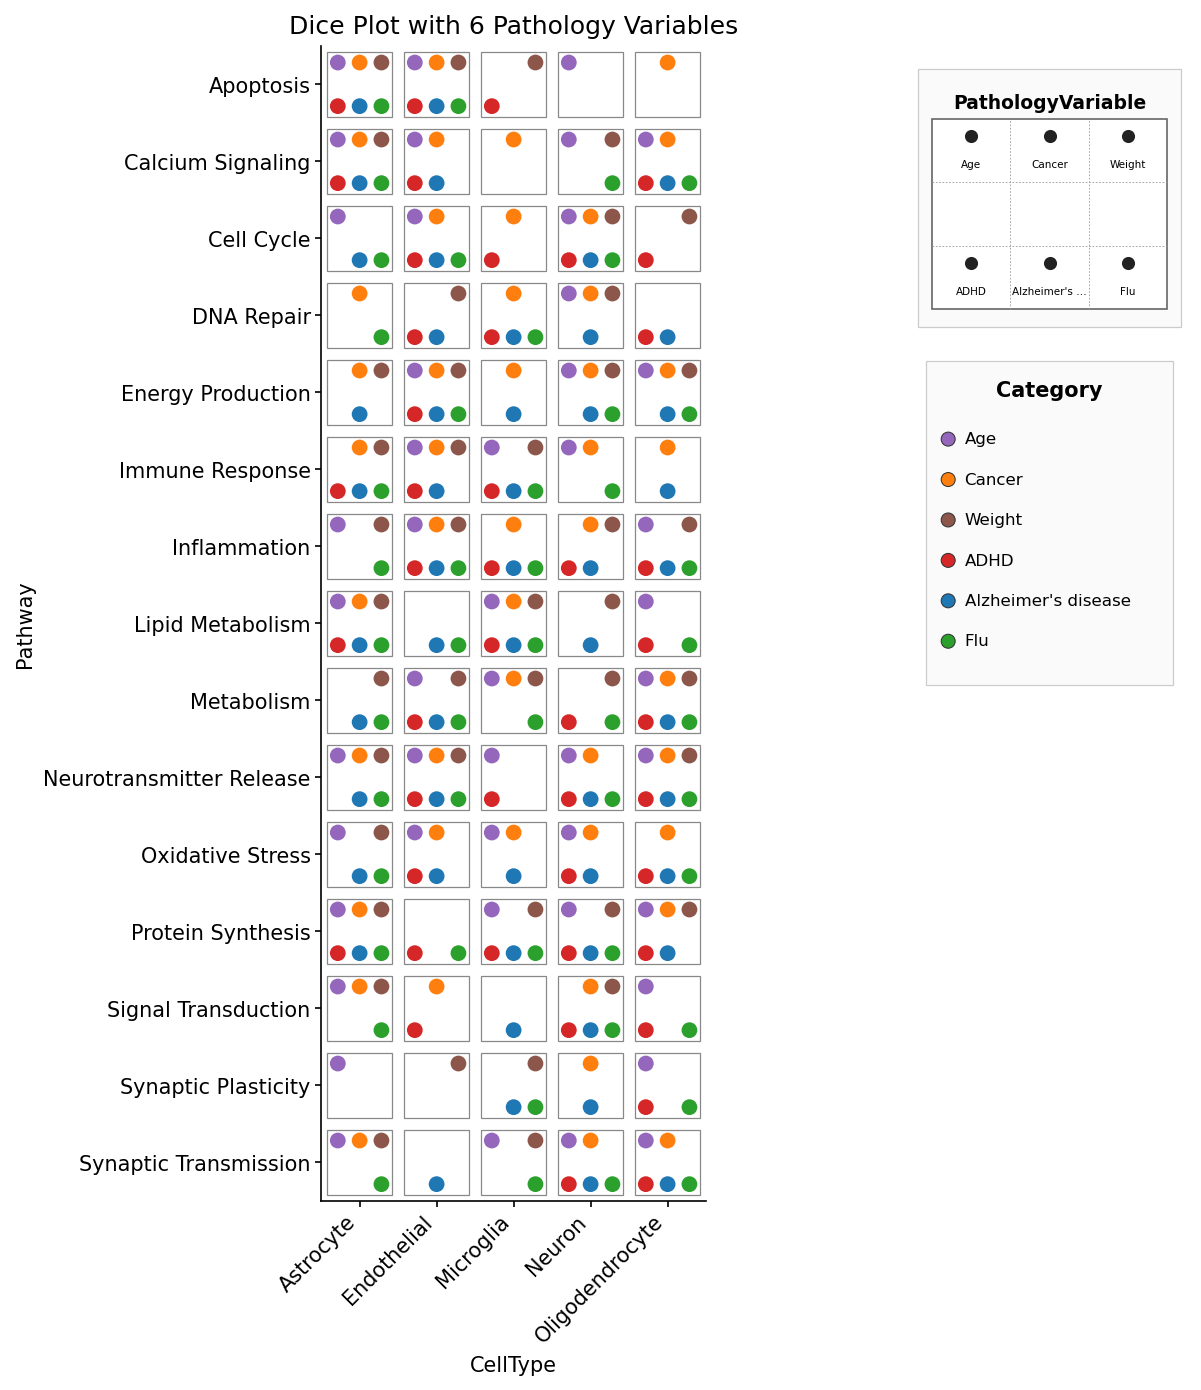
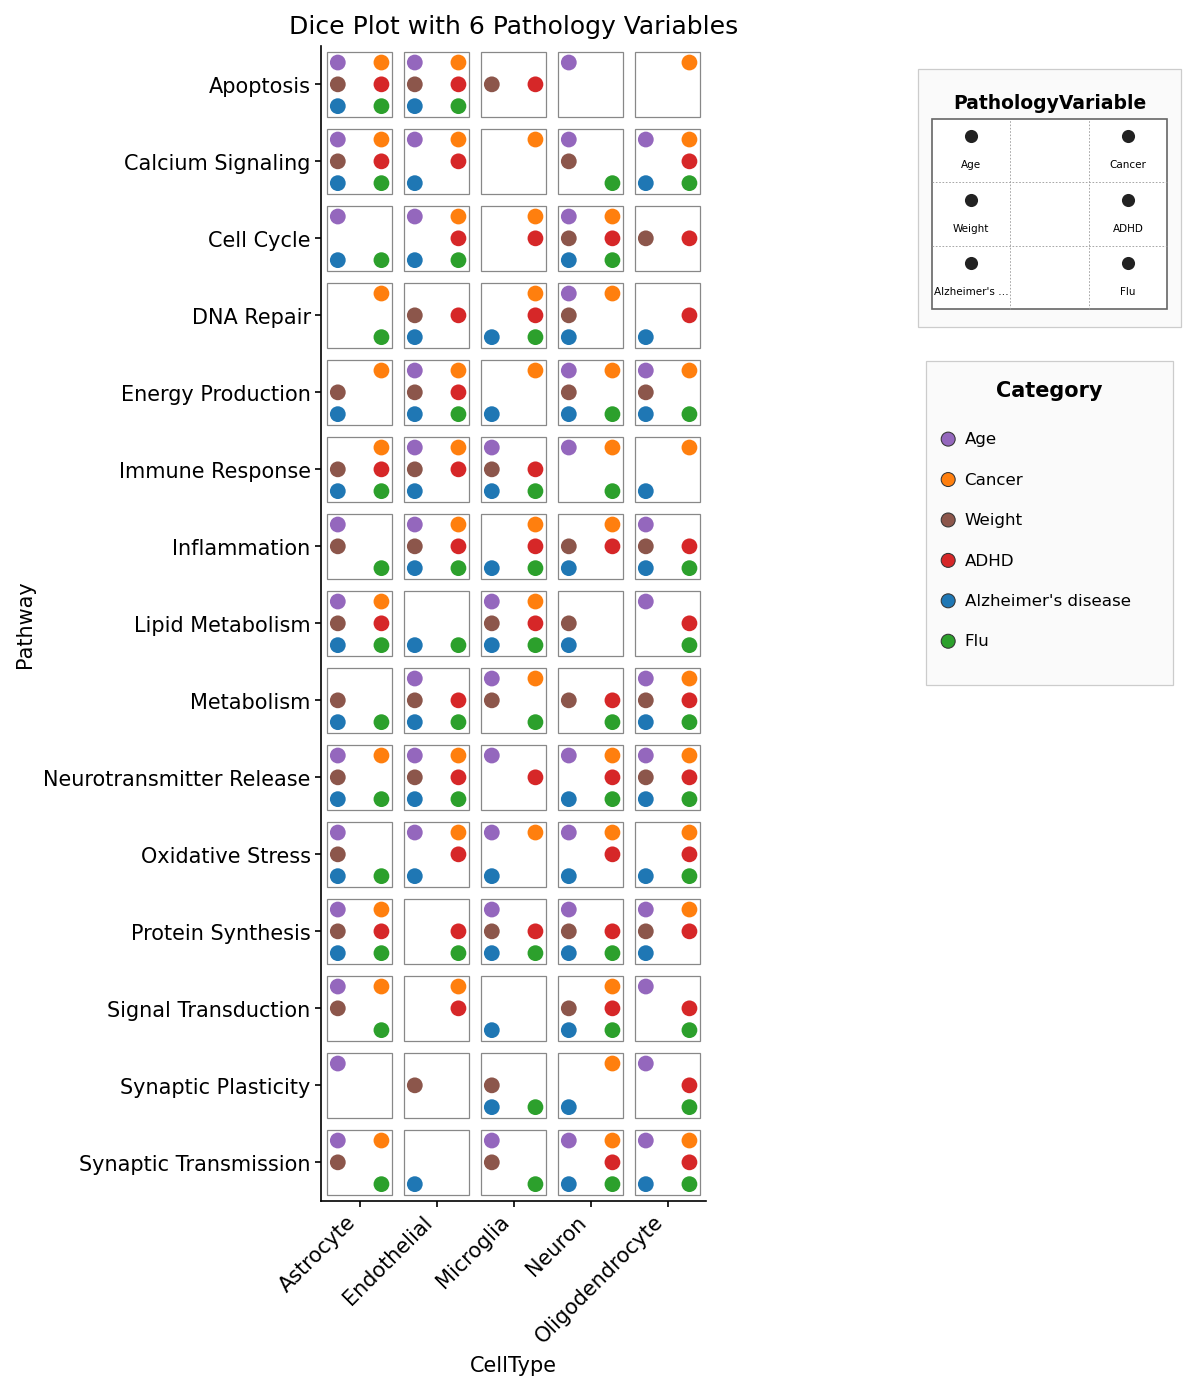
Traditional die faces and support up to 9 pips
- n=6 now renders as two vertical columns (traditional die face). Previous
  layout was transposed (two horizontal rows), inherited from ggdiceplot.
- Add faces for n=7, 8, 9: n=7 = 6 + center, n=8 = 3x3 minus center,
  n=9 = fully populated 3x3.
- Switch the position table to natural row-major reading order:
  positions 1,2,3 are the top row; col = (p-1) % 3, row = (p-1) // 3.
- Bump max_dice_sides default to 9 across the public API and backends.
- Extend get_diceplot_example_data and get_example_cat_c_colors to 9
  pathology variables.
- Add a n=9 showcase image and regenerate dice_6_categorical.png under the
  new layout.
- Update tests: traditional-face offsets, explicit n=6 two-column assertion,
  n=1..9 parametrized render smoke test. 32 tests pass.
- Document the divergence from ggdiceplot and the full 1..9 dice face table
  in the readme.

diff --git a/tests/test_layout.py b/tests/test_layout.py
@@ -1,8 +1,14 @@
 """Geometry sanity for the dice grid layout.
 
-The (x, y) offsets for each face must match `ggdiceplot::make_offsets()` when
-the y-axis is flipped (we store y-down, ggdiceplot uses y-up). These values
-were captured from the live R package at cell_width=cell_height=1.0, pad=0.1.
+Positions match the **traditional die-face** layout (n=6 is two vertical
+columns, not two horizontal rows — which is where we deliberately diverge
+from ggdiceplot). The expected offsets below are generated from a natural
+row-major reading of the 3×3 grid at `cell_width=cell_height=1.0, pad=0.1`.
+
+    col=0 col=1 col=2
+      1     2     3     row=0 (top)
+      4     5     6     row=1 (middle)
+      7     8     9     row=2 (bottom)
 """
 
 import pytest
@@ -16,25 +22,35 @@ from pydiceplot.plots.backends._layout import (
 )
 
 
-# (x, y_up) from ggdiceplot
-GGDICEPLOT_OFFSETS = {
+# (x, y_up) expected by the traditional die-face layout
+TRADITIONAL_OFFSETS = {
     1: [(0.00, 0.00)],
     2: [(-0.40, 0.40), (0.40, -0.40)],
     3: [(-0.40, 0.40), (0.00, 0.00), (0.40, -0.40)],
     4: [(-0.40, 0.40), (0.40, 0.40), (-0.40, -0.40), (0.40, -0.40)],
     5: [(-0.40, 0.40), (0.40, 0.40), (0.00, 0.00), (-0.40, -0.40), (0.40, -0.40)],
-    6: [(-0.40, 0.40), (0.00, 0.40), (0.40, 0.40),
+    6: [(-0.40, 0.40), (0.40, 0.40),
+        (-0.40, 0.00), (0.40, 0.00),
+        (-0.40, -0.40), (0.40, -0.40)],
+    7: [(-0.40, 0.40), (0.40, 0.40),
+        (-0.40, 0.00), (0.00, 0.00), (0.40, 0.00),
+        (-0.40, -0.40), (0.40, -0.40)],
+    8: [(-0.40, 0.40), (0.00, 0.40), (0.40, 0.40),
+        (-0.40, 0.00), (0.40, 0.00),
+        (-0.40, -0.40), (0.00, -0.40), (0.40, -0.40)],
+    9: [(-0.40, 0.40), (0.00, 0.40), (0.40, 0.40),
+        (-0.40, 0.00), (0.00, 0.00), (0.40, 0.00),
         (-0.40, -0.40), (0.00, -0.40), (0.40, -0.40)],
 }
 
 
-@pytest.mark.parametrize("n", [1, 2, 3, 4, 5, 6])
-def test_dot_offsets_match_ggdiceplot(n):
+@pytest.mark.parametrize("n", [1, 2, 3, 4, 5, 6, 7, 8, 9])
+def test_dot_offsets_match_traditional_die_faces(n):
     offs = dot_offsets(n, cell_width=1.0, cell_height=1.0, pad=0.1)
-    expected = GGDICEPLOT_OFFSETS[n]
+    expected = TRADITIONAL_OFFSETS[n]
     assert len(offs) == len(expected)
     for (dx, dy_down), (ex, ey_up) in zip(offs, expected):
-        # We use y-down; ggdiceplot uses y-up. Negate dy for comparison.
+        # We use y-down; ggplot2-style y-up for comparison → negate dy.
         assert dx == pytest.approx(ex, abs=1e-9)
         assert -dy_down == pytest.approx(ey_up, abs=1e-9)
 
@@ -43,15 +59,27 @@ def test_dice_positions_table():
     assert DICE_POSITIONS[1] == [5]
     assert DICE_POSITIONS[2] == [1, 9]
     assert DICE_POSITIONS[3] == [1, 5, 9]
-    assert DICE_POSITIONS[4] == [1, 7, 3, 9]
-    assert DICE_POSITIONS[5] == [1, 7, 5, 3, 9]
-    assert DICE_POSITIONS[6] == [1, 4, 7, 3, 6, 9]
+    assert DICE_POSITIONS[4] == [1, 3, 7, 9]
+    assert DICE_POSITIONS[5] == [1, 3, 5, 7, 9]
+    assert DICE_POSITIONS[6] == [1, 3, 4, 6, 7, 9]
+    assert DICE_POSITIONS[7] == [1, 3, 4, 5, 6, 7, 9]
+    assert DICE_POSITIONS[8] == [1, 2, 3, 4, 6, 7, 8, 9]
+    assert DICE_POSITIONS[9] == [1, 2, 3, 4, 5, 6, 7, 8, 9]
 
 
 def test_grid_positions_are_row_col():
     """`dot_grid_positions(4)` → TL, TR, BL, BR as (row, col)."""
     grid = dot_grid_positions(4)
     assert grid == [(0, 0), (0, 2), (2, 0), (2, 2)]
+
+
+def test_grid_positions_for_six_are_two_columns():
+    """n=6 must be two vertical columns: TL, TR, ML, MR, BL, BR."""
+    assert dot_grid_positions(6) == [
+        (0, 0), (0, 2),
+        (1, 0), (1, 2),
+        (2, 0), (2, 2),
+    ]
 
 
 def test_compute_dice_layout_centres_square_grid():
@@ -75,7 +103,7 @@ def test_compute_dice_layout_rejects_bad_inputs():
     with pytest.raises(ValueError):
         compute_dice_layout(n_x=0, n_y=2, plot_width=100, plot_height=100, ndots=4)
     with pytest.raises(ValueError):
-        compute_dice_layout(n_x=2, n_y=2, plot_width=100, plot_height=100, ndots=7)
+        compute_dice_layout(n_x=2, n_y=2, plot_width=100, plot_height=100, ndots=10)
 
 
 def test_scaled_pip_radius_clamps_and_maps():

diff --git a/pydiceplot/plots/backends/_layout.py b/pydiceplot/plots/backends/_layout.py
@@ -23,27 +23,29 @@ DICE_POSITIONS: dict[int, List[int]] = {
     1: [5],
     2: [1, 9],
     3: [1, 5, 9],
-    4: [1, 7, 3, 9],
-    5: [1, 7, 5, 3, 9],
-    6: [1, 4, 7, 3, 6, 9],
+    4: [1, 3, 7, 9],              # four corners
+    5: [1, 3, 5, 7, 9],            # corners + centre
+    6: [1, 3, 4, 6, 7, 9],         # traditional die: two vertical columns
+    7: [1, 3, 4, 5, 6, 7, 9],       # 6 + centre
+    8: [1, 2, 3, 4, 6, 7, 8, 9],    # 3×3 minus centre
+    9: [1, 2, 3, 4, 5, 6, 7, 8, 9], # fully populated 3×3
 }
 
-# Position→(col, row) mapping uses ggdiceplot's convention:
+# Position→(row, col) mapping uses natural reading order:
 #
 #     col=0 col=1 col=2
-#       1     4     7     row=0 (top)
-#       2     5     8     row=1 (middle)
-#       3     6     9     row=2 (bottom)
+#       1     2     3     row=0 (top)
+#       4     5     6     row=1 (middle)
+#       7     8     9     row=2 (bottom)
 #
-# So `col = (p-1) // 3` and `row_from_top = (p-1) % 3`.
-# Dice-face lookups (e.g. n=4 → [1,7,3,9]) then give TL, TR, BL, BR in reading
-# order, which matches ggdiceplot's `make_offsets()` output exactly.
+# So `row = (p-1) // 3` and `col = (p-1) % 3`. This gives traditional
+# die faces for every n in 1..9.
 
 
 def dot_grid_positions(ndots: int) -> List[Tuple[int, int]]:
     """Return `(grid_row, grid_col)` for each pip, with row 0 = top, col 0 = left."""
     positions = DICE_POSITIONS.get(ndots, [])
-    return [((p - 1) % 3, (p - 1) // 3) for p in positions]
+    return [((p - 1) // 3, (p - 1) % 3) for p in positions]
 
 
 def dot_offsets(
@@ -127,13 +129,13 @@ def compute_dice_layout(
 ) -> DiceLayout:
     """Compute a centred square-cell dice layout, mirroring kuva::add_diceplot.
 
-    Kuva picks `cell_sq = min(plot_w/n_x, plot_h/n_y)` so both axes use the same
+    Picks `cell_sq = min(plot_w/n_x, plot_h/n_y)` so both axes use the same
     cell size, then centres the grid within the plot area.
     """
     if n_x <= 0 or n_y <= 0:
         raise ValueError(f"n_x and n_y must be positive, got ({n_x}, {n_y})")
-    if ndots < 1 or ndots > 6:
-        raise ValueError(f"ndots must be in 1..6, got {ndots}")
+    if ndots < 1 or ndots > 9:
+        raise ValueError(f"ndots must be in 1..9, got {ndots}")
 
     cw = plot_width / n_x
     ch = plot_height / n_y

diff --git a/pydiceplot/plots/backends/_dice_utils.py b/pydiceplot/plots/backends/_dice_utils.py
@@ -69,7 +69,7 @@ def preprocess_dice_plot(
     size_col: Optional[str] = None,
     cat_a_order: Optional[Sequence[str]] = None,
     cat_b_order: Optional[Sequence[str]] = None,
-    max_dice_sides: int = 6,
+    max_dice_sides: int = 9,
 ) -> DicePlotData:
     """Turn long-format `data` into a `DicePlotData` ready for rendering.
 
@@ -194,9 +194,9 @@ def generate_automatic_colors(n_colors: int) -> List[str]:
 
 
 def get_diceplot_example_data(n: int) -> pd.DataFrame:
-    """Toy data for a dice plot with `n` pathology variables (1..6)."""
-    if n < 1 or n > 6:
-        raise ValueError("n must be between 1 and 6")
+    """Toy data for a dice plot with `n` pathology variables (1..9)."""
+    if n < 1 or n > 9:
+        raise ValueError("n must be between 1 and 9")
 
     cell_types = ["Neuron", "Astrocyte", "Microglia", "Oligodendrocyte", "Endothelial"]
     pathways = [
@@ -206,7 +206,10 @@ def get_diceplot_example_data(n: int) -> pd.DataFrame:
         "Energy Production", "Calcium Signaling", "Synaptic Plasticity",
         "Immune Response",
     ]
-    pathology_vars = ["Alzheimer's disease", "Cancer", "Flu", "ADHD", "Age", "Weight"][:n]
+    pathology_vars = [
+        "Alzheimer's disease", "Cancer", "Flu", "ADHD", "Age", "Weight",
+        "Diabetes", "Obesity", "Hypertension",
+    ][:n]
 
     rng = np.random.default_rng(123)
     rows = []
@@ -231,4 +234,7 @@ def get_example_cat_c_colors() -> dict:
         "ADHD": "#d62728",
         "Age": "#9467bd",
         "Weight": "#8c564b",
+        "Diabetes": "#e377c2",
+        "Obesity": "#17becf",
+        "Hypertension": "#bcbd22",
     }

diff --git a/tests/test_dice_plot.py b/tests/test_dice_plot.py
@@ -78,10 +78,10 @@ def test_preprocess_drops_unknown_categories():
 
 def test_preprocess_rejects_too_many_categories():
     data = pd.DataFrame({
-        "a": ["x"] * 7, "b": ["y"] * 7,
-        "c": list("ABCDEFG"),
+        "a": ["x"] * 10, "b": ["y"] * 10,
+        "c": list("ABCDEFGHIJ"),
     })
-    with pytest.raises(ValueError, match="must be in 1..6"):
+    with pytest.raises(ValueError, match="must be in 1..9"):
         preprocess_dice_plot(data, "a", "b", "c")
 
 
@@ -116,7 +116,7 @@ def test_matplotlib_per_dot_renders(tmp_path):
     assert (tmp_path / "out.png").exists()
 
 
-@pytest.mark.parametrize("n", [1, 2, 3, 4, 5, 6])
+@pytest.mark.parametrize("n", [1, 2, 3, 4, 5, 6, 7, 8, 9])
 def test_matplotlib_renders_all_dice_sizes(n, tmp_path):
     pydiceplot.set_backend("matplotlib")
     data = get_diceplot_example_data(n)

diff --git a/example_code/example.py b/example_code/example.py
@@ -73,6 +73,7 @@ if __name__ == "__main__":
 
     example_n_categorical(4, "dice_4_categorical")
     example_n_categorical(6, "dice_6_categorical")
+    example_n_categorical(9, "dice_9_categorical")
     example_per_dot_continuous("dice_per_dot_continuous")
 
     print(f"Wrote showcase images to {IMAGES_DIR}/")

diff --git a/pydiceplot/plots/backends/_plotly_backend.py b/pydiceplot/plots/backends/_plotly_backend.py
@@ -58,7 +58,7 @@ def plot_dice(
     position_legend_label: Optional[str] = None,
     fig_width: Optional[float] = None,
     fig_height: Optional[float] = None,
-    max_dice_sides: int = 6,
+    max_dice_sides: int = 9,
     group=None, group_colors=None, group_alpha=0.6,
 ):
     dp = preprocess_dice_plot(

diff --git a/pydiceplot/plots/_plot.py b/pydiceplot/plots/_plot.py
@@ -59,7 +59,7 @@ def dice_plot(
     # Dimensions
     fig_width: Optional[float] = None,
     fig_height: Optional[float] = None,
-    max_dice_sides: int = 6,
+    max_dice_sides: int = 9,
     # Legacy (unused, accepted for back-compat)
     group=None,
     group_colors=None,

diff --git a/pydiceplot/plots/backends/_matplotlib_backend.py b/pydiceplot/plots/backends/_matplotlib_backend.py
@@ -66,7 +66,7 @@ def plot_dice(
     # dimensions
     fig_width: Optional[float] = None,
     fig_height: Optional[float] = None,
-    max_dice_sides: int = 6,
+    max_dice_sides: int = 9,
     # legacy ignored
     group=None,
     group_colors=None,

diff --git a/readme.md b/readme.md
@@ -21,7 +21,9 @@ them at any time with `pixi run example`.
 
 ![4-category dice plot](images/dice_4_categorical.png)
 
-![6-category dice plot](images/dice_6_categorical.png)
+![6-category dice plot (traditional two-column face)](images/dice_6_categorical.png)
+
+![9-category dice plot (fully populated 3×3 face)](images/dice_9_categorical.png)
 
 ![Per-dot continuous fill and size](images/dice_per_dot_continuous.png)
 
@@ -154,16 +156,21 @@ pos 2 (ML)  pos 5 (MM)  pos 8 (MR)
 pos 3 (BL)  pos 6 (BM)  pos 9 (BR)
 ```
 
-Dice sizes pick from this table (matching `ggdiceplot::make_offsets`):
+Dice sizes pick from this table (traditional die faces; n=6 is two vertical
+columns, not two horizontal rows — this is where we deliberately diverge from
+`ggdiceplot::make_offsets`, which renders the transposed layout):
 
 | n | positions | visual |
 |---|-----------|--------|
 | 1 | `[5]` | center |
-| 2 | `[1, 9]` | TL + BR (diagonal) |
+| 2 | `[1, 9]` | diagonal (TL + BR) |
 | 3 | `[1, 5, 9]` | diagonal + center |
-| 4 | `[1, 7, 3, 9]` | four corners |
-| 5 | `[1, 7, 5, 3, 9]` | corners + center |
-| 6 | `[1, 4, 7, 3, 6, 9]` | top row + bottom row |
+| 4 | `[1, 3, 7, 9]` | four corners |
+| 5 | `[1, 3, 5, 7, 9]` | corners + center |
+| 6 | `[1, 3, 4, 6, 7, 9]` | two vertical columns |
+| 7 | `[1, 3, 4, 5, 6, 7, 9]` | 6 + center |
+| 8 | `[1, 2, 3, 4, 6, 7, 8, 9]` | 3×3 minus center |
+| 9 | `[1, 2, 3, 4, 5, 6, 7, 8, 9]` | fully populated 3×3 |
 
 ## Citation
 
